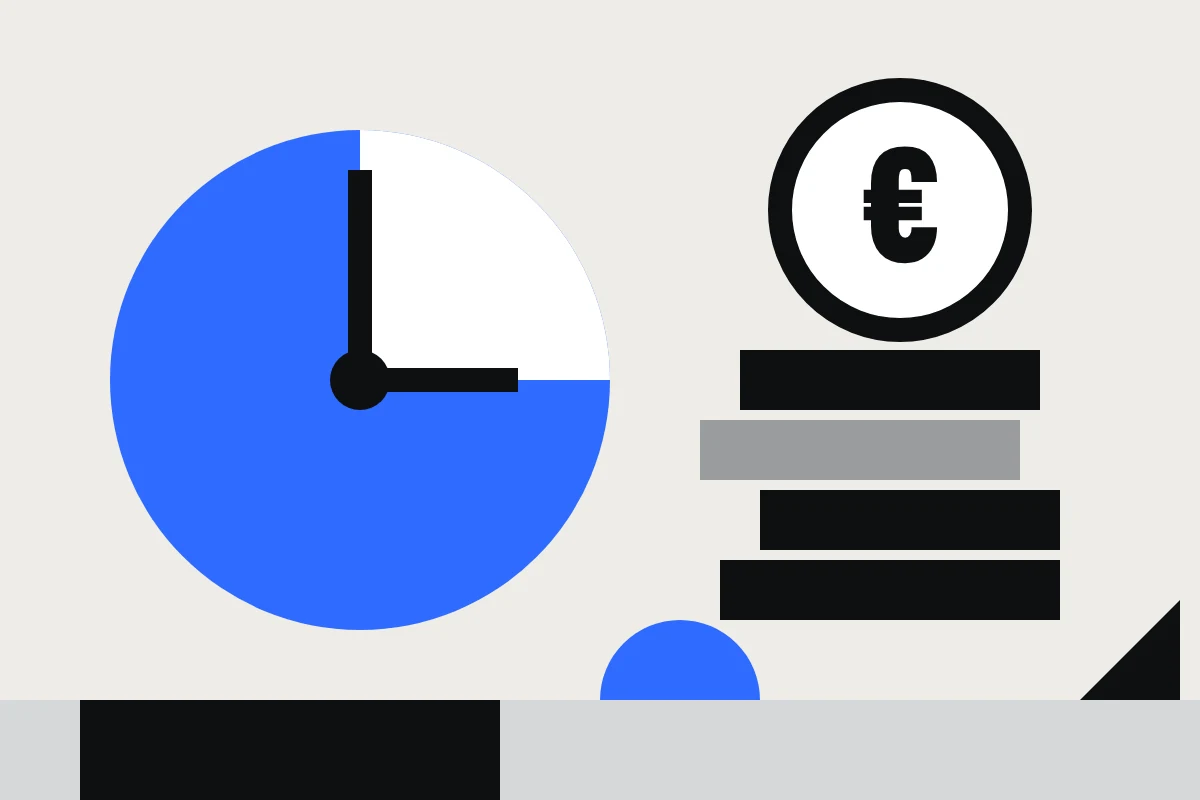
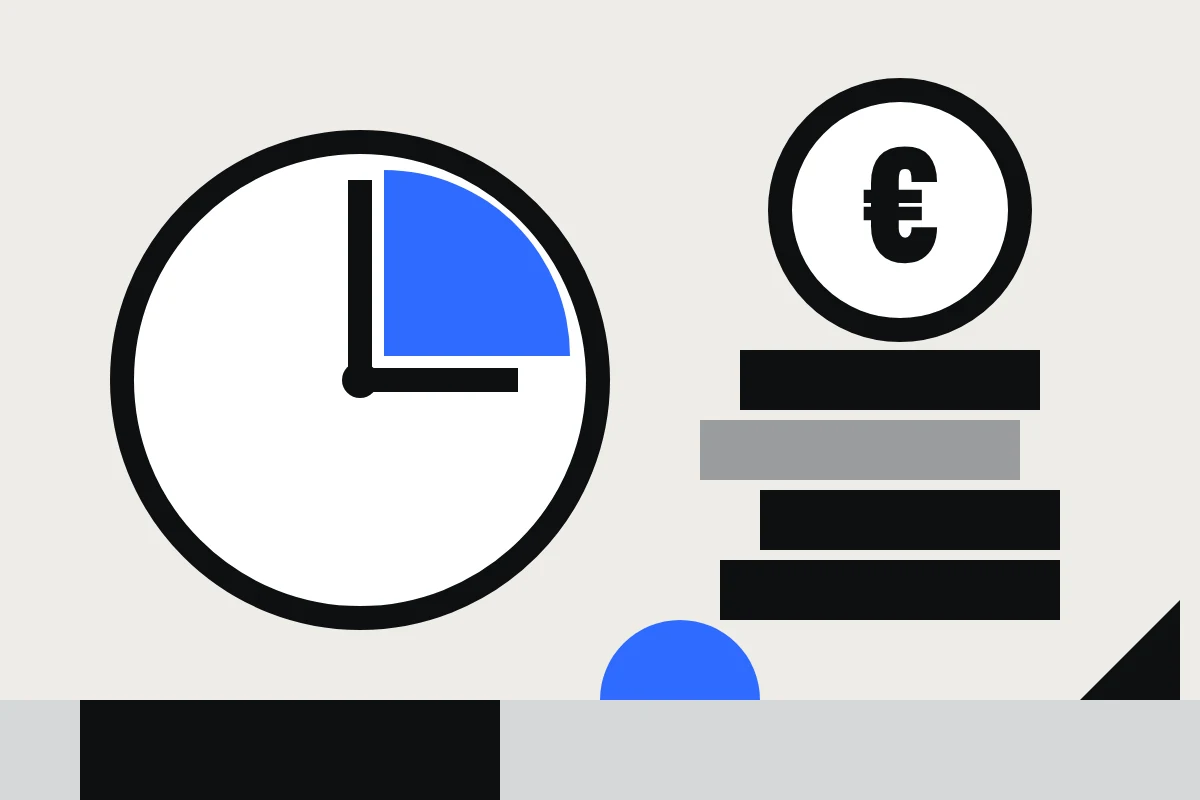
Blogbeitrag Geld und Zeit: Befunde der Prüfung eingearbeitet
- Ab-Preise einheitlich, 150 € je Unterseite nur im Paket Website
- Dauer-Diagramm: Mindestdauer, übliche Spanne, großer Umfang getrennt
- Eigene Auswertung vollständig aufgeschlüsselt, Kundenbeispiele sinngemäß und ohne erkennbare Details
- Kein Blau an Schwarz (Uhr im Titel- und Vorschaubild, Icons, Fugen in Diagrammen)

Claude-Session: https://claude.ai/code/session_01DgHRh8FoC8rL4iNtf1G8sb

Changed region(s): [[0.0925, 0.1562, 0.5242, 0.8125]]

diff --git a/website/blog/was-kostet-eine-website/index.html b/website/blog/was-kostet-eine-website/index.html
@@ -41,7 +41,7 @@
    "inLanguage": "de-DE",
    "url": "https://studio-aah.de/blog/was-kostet-eine-website/",
    "mainEntityOfPage": "https://studio-aah.de/blog/was-kostet-eine-website/",
-   "wordCount": 2633,
+   "wordCount": 2657,
    "articleSection": "Ratgeber",
    "keywords": [
     "Website Kosten",
@@ -53,7 +53,6 @@
    ],
    "author": {
     "@type": "Person",
-    "@id": "https://studio-aah.de/profil/#anna",
     "name": "Anna Härtelt",
     "url": "https://studio-aah.de/profil/",
     "jobTitle": "UX/UI-Designerin, Strategin und Webentwicklerin",
@@ -85,7 +84,8 @@
     "addressCountry": "DE"
    },
    "founder": {
-    "@id": "https://studio-aah.de/profil/#anna"
+    "@type": "Person",
+    "name": "Anna Härtelt"
    }
   },
   {
@@ -290,10 +290,10 @@
         <p class="meta" id="kurz-titel">Kurz gesagt</p>
         <ul>
           <li>Bei STUDIO AAH! beginnt ein <strong>Onepager bei 1.150&nbsp;€</strong>, eine <strong>Website mit bis zu 6 Unterseiten bei 2.450&nbsp;€</strong> und ein <strong>Redesign für mittelständische Unternehmen bei 5.000&nbsp;€</strong> – jeweils netto. Für jede neue Website kommt einmalig der Launch für 150&nbsp;€ dazu.</li>
-          <li>Jede weitere Unterseite kostet 150&nbsp;€. Eine Website mit 10 Unterseiten liegt damit bei 3.200&nbsp;€ netto, Launch eingerechnet.</li>
+          <li>Im Paket „Website – neu oder Redesign“ sind 6 Unterseiten enthalten, jede weitere kostet 150&nbsp;€. Eine Website mit 10 Unterseiten beginnt damit bei 3.200&nbsp;€ netto, Launch eingerechnet.</li>
           <li>Nach dem Launch zahlen Sie Hosting, Domain und Lizenzen direkt an die Anbieter. Wartung kostet bei mir ab 45&nbsp;€ im Monat, Änderungen ab 65&nbsp;€ pro Stunde.</li>
           <li>Ein Onepager dauert etwa <strong>4 bis 6 Wochen</strong>, eine Website mit mehreren Unterseiten <strong>3 bis 4 Monate</strong>, je nach Umfang bis zu 6 Monate.</li>
-          <li>Die meiste Zeit kosten selten Technik oder Design, sondern Inhalte und Abstimmung: In meinen Projekten und Anfragen 2025 und 2026 betrafen 35 von 79 schriftlichen Rückfragen Inhalte oder den Ablauf – nur 5 die Kosten.</li>
+          <li>In meinen Projekten und Anfragen 2025 und 2026 drehten sich 35 von 79 schriftlichen Rückfragen um Inhalte oder den Ablauf – nur 5 um Kosten und 4 um Technik.</li>
         </ul>
       </section>
 
@@ -312,7 +312,7 @@
       </nav>
 
       <h2 id="preise">Was kostet eine Website? Die Preise im Überblick</h2>
-      <p>Eine Website kostet so viel, wie sie leisten soll. Eine Seite, die ein einzelnes Angebot vorstellt, ist ein anderes Projekt als ein Unternehmensauftritt mit Leistungs-, Referenz- und Karriereseiten. Preisangaben im Netz stammen fast immer von Anbietern selbst; eine unabhängige Erhebung zu Website-Preisen in Deutschland mit offengelegter Methode habe ich bei meiner Recherche im Oktober 2026 nicht gefunden. Deshalb nenne ich hier meine eigenen Einstiegspreise – nachprüfbar auf meiner <a href="../../preise/">Preisseite</a>.</p>
+      <p>Eine Website kostet so viel, wie sie leisten soll. Eine Seite, die ein einzelnes Angebot vorstellt, ist ein anderes Projekt als ein Unternehmensauftritt mit Leistungs-, Referenz- und Karriereseiten. Bei meiner Recherche im Oktober 2026 habe ich nur Preisangaben von Anbietern selbst gefunden, aber keine unabhängige Erhebung zu Website-Preisen in Deutschland mit offengelegter Methode. Deshalb nenne ich hier meine eigenen Einstiegspreise – nachprüfbar auf meiner <a href="../../preise/">Preisseite</a>.</p>
 
       <div class="tabelle-scroll" tabindex="0" role="region" aria-label="Tabelle: Website-Preise bei STUDIO AAH!">
         <table class="artikel-tabelle">
@@ -338,10 +338,10 @@
         <div class="diagramm">
           <p class="meta">Beispielrechnungen inklusive Launch, netto</p>
           <ul class="balken-liste">
-            <li><span class="balken-name">Onepager</span><span class="balken-spur"><span class="balken" style="--w: 18.6%"></span><span class="balken-wert">1.300&nbsp;€</span></span></li>
-            <li><span class="balken-name">Website <small>6 Unterseiten</small></span><span class="balken-spur"><span class="balken" style="--w: 37.1%"></span><span class="balken-wert">2.600&nbsp;€</span></span></li>
-            <li><span class="balken-name">Website <small>10 Unterseiten</small></span><span class="balken-spur"><span class="balken balken-blau" style="--w: 45.7%"></span><span class="balken-wert">3.200&nbsp;€</span></span></li>
-            <li><span class="balken-name">Website zweisprachig <small>6 Unterseiten, +30&nbsp;%</small></span><span class="balken-spur"><span class="balken" style="--w: 47.6%"></span><span class="balken-wert">3.335&nbsp;€</span></span></li>
+            <li><span class="balken-name">Onepager</span><span class="balken-spur"><span class="balken" style="--w: 18.6%"></span><span class="balken-wert">ab 1.300&nbsp;€</span></span></li>
+            <li><span class="balken-name">Website <small>6 Unterseiten</small></span><span class="balken-spur"><span class="balken" style="--w: 37.1%"></span><span class="balken-wert">ab 2.600&nbsp;€</span></span></li>
+            <li><span class="balken-name">Website <small>10 Unterseiten</small></span><span class="balken-spur"><span class="balken balken-blau" style="--w: 45.7%"></span><span class="balken-wert">ab 3.200&nbsp;€</span></span></li>
+            <li><span class="balken-name">Website zweisprachig <small>6 Unterseiten, +30&nbsp;%</small></span><span class="balken-spur"><span class="balken" style="--w: 47.6%"></span><span class="balken-wert">ab 3.335&nbsp;€</span></span></li>
             <li><span class="balken-name">Redesign für Unternehmen</span><span class="balken-spur"><span class="balken" style="--w: 73.6%"></span><span class="balken-wert">ab 5.150&nbsp;€</span></span></li>
             <li><span class="balken-name">Komplexes Projekt <small>Shop, Mitgliederbereich, über 25 Seiten</small></span><span class="balken-spur"><span class="balken" style="--w: 87.9%"></span><span class="balken-wert">ab 6.150&nbsp;€</span></span></li>
           </ul>
@@ -349,16 +349,16 @@
         <figcaption><strong>Was eine Website bei STUDIO AAH! kostet:</strong> Beispielrechnungen mit den Einstiegspreisen, jeweils plus 150&nbsp;€ Launch. Eine zweite Sprache kostet 30&nbsp;% des Website-Preises, die Übersetzung liefern Sie. Stand: Oktober 2026.</figcaption>
       </figure>
 
-      <h3>Drei Wege zur Website – und was Sie jeweils bezahlen</h3>
-      <div class="tabelle-scroll" tabindex="0" role="region" aria-label="Tabelle: Wege zur Website">
+      <h3>Selbst bauen oder bauen lassen?</h3>
+      <div class="tabelle-scroll" tabindex="0" role="region" aria-label="Tabelle: Selbst bauen oder bauen lassen">
         <table class="artikel-tabelle">
+          <caption>Zwei Wege zur Website</caption>
           <thead>
             <tr><th scope="col">Weg</th><th scope="col">Was Sie zahlen</th><th scope="col">Was Sie selbst tun</th></tr>
           </thead>
           <tbody>
-            <tr><th scope="row">Baukasten (z.&nbsp;B. Wix, Jimdo)</th><td>meist eine laufende Gebühr an den Anbieter</td><td>Struktur, Texte, Bilder, Gestaltung und Pflege – Ihre eigene Zeit ist ein großer Posten</td></tr>
-            <tr><th scope="row">Freelancerin oder Studio</th><td>einen Projektpreis, danach Hosting, Domain und auf Wunsch Wartung</td><td>Inhalte liefern oder freigeben, Feedback geben</td></tr>
-            <tr><th scope="row">Agentur</th><td>einen Projektpreis, oft für ein Team aus mehreren Fachleuten</td><td>Inhalte liefern oder freigeben, Feedback geben</td></tr>
+            <tr><th scope="row">Selbst bauen mit einem Baukasten (z.&nbsp;B. Wix, Jimdo)</th><td>die Gebühr des Anbieters, je nach Tarif</td><td>Struktur, Texte, Bilder, Gestaltung und Pflege – Ihre eigene Zeit ist ein großer Posten</td></tr>
+            <tr><th scope="row">Bauen lassen von Freelancerin, Studio oder Agentur</th><td>einen Projektpreis, danach Hosting, Domain und auf Wunsch Wartung</td><td>Inhalte liefern oder freigeben, Feedback geben</td></tr>
           </tbody>
         </table>
       </div>
@@ -366,7 +366,7 @@
 
       <h2 id="preisfaktoren">Wovon der Preis abhängt</h2>
       <ul>
-        <li><strong>Anzahl der Unterseiten:</strong> Bei mir der wichtigste Preisfaktor. Jede Seite braucht Struktur, Text, Gestaltung und Umsetzung – deshalb kostet jede Unterseite über sechs hinaus 150&nbsp;€.</li>
+        <li><strong>Anzahl der Unterseiten:</strong> Jede Seite braucht Struktur, Text, Gestaltung und Umsetzung. Im Paket „Website – neu oder Redesign“ kostet deshalb jede Unterseite über sechs hinaus 150&nbsp;€.</li>
         <li><strong>Ausgangslage:</strong> Bei einem Redesign analysiere ich die bestehende Seite, übernehme vorhandene Inhalte und richte Weiterleitungen alter Adressen ein, damit Besucher:innen und Google nichts verlieren.</li>
         <li><strong>Funktionen:</strong> Ein Blog kostet 490&nbsp;€, eine Newsletter-Anbindung 260&nbsp;€, jede weitere Sprache 30&nbsp;% des Website-Preises. Shop oder Mitgliederbereich machen ein eigenes Projekt daraus.</li>
         <li><strong>Inhalte:</strong> Gibt es Texte, Fotos, Logo und Grafiken schon – oder müssen sie erst entstehen?</li>
@@ -375,12 +375,12 @@
 
       <aside class="praxis" aria-label="Aus der Praxis: Bilder">
         <p class="meta">Aus der Praxis</p>
-        <p>In einem Projekt hätte ein professionelles Fotoshooting deutlich mehr gekostet als die Website selbst: mehrere Shooting-Tage, dazu Mitarbeitende, die nicht unbedingt im Netz zu sehen sein wollten. Der Kunde fragte deshalb nach einer genauen Bildliste und nach Stockfotos für den Übergang. Beides sind gute Wege. Mein Rat: Klären Sie die Bilder vor dem Projektstart – sie sind oft ein eigener Kostenblock.</p>
+        <p>In einem Projekt hätte ein professionelles Fotoshooting deutlich mehr gekostet als die Website selbst: mehrere Shooting-Tage, dazu Mitarbeitende, die nicht unbedingt im Netz zu sehen sein wollten. Der Kunde fragte deshalb nach einer genauen Bildliste und nach Stockfotos für den Übergang. Beides sind gute Wege. Mein Rat: Klären Sie vor dem Projektstart, woher die Bilder kommen – ein eigenes Fotoshooting kann ein eigener Kostenblock sein.</p>
       </aside>
 
       <aside class="praxis" aria-label="Aus der Praxis: Sorge um steigende Kosten">
         <p class="meta">Aus der Praxis</p>
-        <p>„Ich habe ein bisschen Angst, dass wir gerade den Preis der Seite auf Grund der Kommunikation in die Höhe treiben“, schrieb mir ein Kunde mitten im Projekt. Die Sorge ist berechtigt, wenn nicht klar ist, was im Preis steckt. Fragen Sie deshalb bei jedem Angebot: Wie viele Korrekturrunden sind enthalten – und was kostet jede weitere?</p>
+        <p>Ein Kunde schrieb mir mitten im Projekt, er fürchte, dass die viele Abstimmung den Preis in die Höhe treibt. Die Sorge ist berechtigt, wenn nicht klar ist, was im Preis steckt. Fragen Sie deshalb bei jedem Angebot: Wie viele Korrekturrunden sind enthalten – und was kostet jede weitere?</p>
       </aside>
 
       <h2 id="laufende-kosten">Laufende Kosten nach dem Launch</h2>
@@ -412,11 +412,11 @@
             <span class="st-schwarz" style="--w: 3050"></span><span class="st-grau" style="--w: 150"></span><span class="st-blau" style="--w: 540"></span><span class="st-streifen" style="--w: 300"></span>
           </div>
           <ul class="legende">
-            <li><i class="st-schwarz"></i>Website mit 10 Unterseiten (2.450&nbsp;€ + 4 × 150&nbsp;€)<b>3.050&nbsp;€</b></li>
+            <li><i class="st-schwarz"></i>Website mit 10 Unterseiten (2.450&nbsp;€ + 4 × 150&nbsp;€)<b>ab 3.050&nbsp;€</b></li>
             <li><i class="st-grau"></i>Launch, einmalig<b>150&nbsp;€</b></li>
             <li><i class="st-blau"></i>Wartung, 12 × 45&nbsp;€ (optional)<b>540&nbsp;€</b></li>
             <li><i class="st-streifen"></i>Hosting, Domain, Lizenzen<b>beim Anbieter</b></li>
-            <li class="legende-summe">Erstes Jahr bei STUDIO AAH!<b>3.740&nbsp;€</b></li>
+            <li class="legende-summe">Erstes Jahr bei STUDIO AAH!<b>ab 3.740&nbsp;€</b></li>
           </ul>
         </div>
         <figcaption><strong>Einmalig und laufend im Vergleich:</strong> Ab dem zweiten Jahr bleiben nur Wartung (540&nbsp;€, wenn gewünscht) sowie Hosting, Domain und Lizenzen. Alle Beträge netto, Stand Oktober 2026. Die Breite des gestreiften Abschnitts ist nur ein Platzhalter, keine Zahl.</figcaption>
@@ -434,16 +434,16 @@
         <div class="diagramm">
           <p class="meta">Dauer in Monaten – von der Beauftragung bis zum Launch</p>
           <ul class="dauer-zeilen">
-            <li><span class="balken-name">Onepager <small>4–6 Wochen</small></span><span class="dauer-spur"><span class="dauer-max" style="--max: 23%"></span><span class="dauer-kern" style="--kern: 15.4%"></span></span></li>
-            <li><span class="balken-name">Website mit Unterseiten <small>3–4 Monate, bis 6</small></span><span class="dauer-spur"><span class="dauer-max" style="--max: 100%"></span><span class="dauer-kern" style="--kern: 66.7%"></span></span></li>
-            <li class="dauer-blau"><span class="balken-name">Beispiel Redesign <small>mit Rebranding, 4 Monate</small></span><span class="dauer-spur"><span class="dauer-kern" style="--kern: 66.7%"></span></span></li>
+            <li><span class="balken-name">Onepager <small>4–6 Wochen</small></span><span class="dauer-spur"><span class="dauer-kern" style="--kern: 15.4%"></span><span class="dauer-spanne" style="--von: 15.4%; --bis: 23%"></span></span></li>
+            <li><span class="balken-name">Website mit Unterseiten <small>3–4 Monate, je nach Umfang bis 6</small></span><span class="dauer-spur"><span class="dauer-kern" style="--kern: 50%"></span><span class="dauer-spanne" style="--von: 50%; --bis: 66.7%"></span><span class="dauer-gross" style="--von: 66.7%; --bis: 100%"></span></span></li>
+            <li><span class="balken-name">Beispiel Redesign <small>mit Rebranding, 4 Monate</small></span><span class="dauer-spur"><span class="dauer-kern" style="--kern: 66.7%"></span></span></li>
           </ul>
           <p class="dauer-achse" aria-hidden="true"><span>0</span><span>1</span><span>2</span><span>3</span><span>4</span><span>5</span><span>6</span></p>
         </div>
-        <figcaption><strong>Realistische Zeitpläne:</strong> schwarz die übliche Dauer, grau der längste Fall bei großem Umfang. Blau: das Redesign für Wolfgang Bauer Ingenieurbau mit Strategie, Rebranding, Website und Unternehmenspräsentation, 2026.</figcaption>
+        <figcaption><strong>Realistische Zeitpläne:</strong> Schwarz die Mindestdauer, blau die übliche Spanne, gestreift die längere Dauer bei großem Umfang. Die dritte Zeile zeigt das Redesign für Wolfgang Bauer Ingenieurbau mit Strategie, Rebranding, Website und Unternehmenspräsentation, 2026: 4 Monate.</figcaption>
       </figure>
 
-      <p>Dass ein Projekt Monate dauert, liegt nicht daran, dass jemand Monate lang programmiert. Es liegt an den Schritten dazwischen: Analyse, Strategie, Gestaltung, Inhalte – und an den Freigaben. An vier Stellen halten wir an, und Sie entscheiden, bevor es weitergeht:</p>
+      <p>Ein Website-Projekt besteht aus mehreren Schritten: Analyse, Strategie, Gestaltung, Inhalte und Umsetzung. An vier Stellen halten wir an, und Sie geben frei, bevor es weitergeht:</p>
 
       <figure class="grafik">
         <div class="diagramm">
@@ -460,19 +460,20 @@
 
       <figure class="grafik grafik-bild">
         <img src="../../bilder/blog-geld-und-zeit-referenz.webp" alt="Startseite der neuen Website von Wolfgang Bauer Ingenieurbau: Überschrift „Leistung auf höchstem Niveau. Wir bauen, wo der Bestand bleibt.“ neben einem Foto des Teams auf der Baustelle." width="1200" height="750" loading="lazy">
-        <figcaption><strong>Beispiel aus der Praxis:</strong> Das Redesign für <a href="https://bauer-ingbau.de">Wolfgang Bauer Ingenieurbau ↗</a> hat mit Strategie, Rebranding und Unternehmenspräsentation 4 Monate gedauert.</figcaption>
+        <figcaption><strong>Beispiel aus der Praxis:</strong> Das Redesign für <a href="https://bauer-ingbau.de">Wolfgang Bauer Ingenieurbau <span aria-hidden="true">↗</span></a> hat mit Strategie, Rebranding und Unternehmenspräsentation 4 Monate gedauert.</figcaption>
       </figure>
 
       <h2 id="zeit-sparen">Was Projekte verlängert – und wie Sie Zeit sparen</h2>
-      <p>Für diesen Beitrag habe ich ausgewertet, worum es in den schriftlichen Rückfragen meiner Kund:innen ging. Das Ergebnis hat mich selbst überrascht:</p>
+      <p>Für diesen Beitrag habe ich ausgewertet, worum es in den schriftlichen Rückfragen meiner Kund:innen ging:</p>
 
       <dl class="kennzahlen-reihe">
-        <div><dt>44<small>%</small></dt><dd>der Rückfragen drehten sich um Inhalte und den Ablauf (35 von 79)</dd></div>
-        <div><dt>18<small>%</small></dt><dd>betrafen die Gestaltung (14 von 79)</dd></div>
-        <div><dt>6<small>%</small></dt><dd>betrafen die Kosten (5 von 79)</dd></div>
+        <div><dt>44<small>%</small></dt><dd>Inhalte und Ablauf (35 von 79)</dd></div>
+        <div><dt>18<small>%</small></dt><dd>Gestaltung (14 von 79)</dd></div>
+        <div><dt>6<small>%</small></dt><dd>Kosten (5 von 79)</dd></div>
+        <div><dt>5<small>%</small></dt><dd>Technik und Hosting (4 von 79)</dd></div>
       </dl>
 
-      <p>Technik ist selten der Engpass. Zeit kostet, was zwischen den Beteiligten passiert: Welche Texte fehlen noch? Welche Korrektur ist schon umgesetzt? Wer gibt frei? Aus einem Projekt kam die Nachricht: „Ich hab den Überblick verloren, weil ich die Sachen […] alle per Mail delegiert hab.“ Das ist verständlich – und lässt sich mit etwas Planung vermeiden.</p>
+      <p>Rückfragen sind keine Zeitmessung. Sie zeigen aber, wo Abstimmung nötig war: Welche Texte fehlen noch? Welche Korrektur ist schon umgesetzt? Wer gibt frei? Aus einem Projekt kam zum Beispiel die Rückmeldung, man habe den Überblick verloren, weil Aufgaben über viele einzelne Mails verteilt waren. Das ist verständlich – und lässt sich mit etwas Planung vermeiden.</p>
 
       <h3>Sechs Wege, Ihr Projekt schneller ins Ziel zu bringen</h3>
       <ol class="checkliste">
@@ -491,14 +492,14 @@
 
       <div class="methodik">
         <p class="meta">So habe ich ausgewertet</p>
-        <p>Grundlage sind die E-Mails zu 6 Website-Projekten und Anfragen der Jahre 2025 und 2026. Ich habe jede Frage, Sorge und Unsicherheit der Kund:innen festgehalten – 79 insgesamt – und einem Thema zugeordnet. Telefonate und Erstgespräche sind nicht enthalten. Fragen vor dem Auftrag, etwa zu Kosten, sind deshalb vermutlich seltener vertreten, als sie gestellt werden. Alle Zitate sind anonymisiert.</p>
+        <p>Grundlage sind die E-Mails zu 4 Website-Projekten und 2 Anfragen der Jahre 2025 und 2026. Ich habe jede Frage, Sorge und Unsicherheit festgehalten – 79 insgesamt – und genau einem Thema zugeordnet: Ablauf und Zusammenarbeit 18, Inhalte 17, Gestaltung 14, Pflege und Zugänge 9, Kosten 5, Formulare und E-Mails 5, Technik und Hosting 4, Recht 2, Sichtbarkeit bei Google 1, Erfolgsmessung 1, Sonstiges 3. Telefonate und Erstgespräche sind nicht enthalten; Fragen vor dem Auftrag, etwa zu Kosten, sind deshalb vermutlich seltener vertreten, als sie gestellt werden. Alle Beispiele sind ohne Namen und sinngemäß wiedergegeben.</p>
       </div>
 
       <h2 id="relaunch">Relaunch oder Überarbeitung?</h2>
       <p>Nicht jede Website braucht einen Neustart. Oft reicht es, gezielt nachzubessern. Diese Gegenüberstellung hilft bei der Entscheidung:</p>
       <div class="vergleich">
         <div>
-          <h3><svg viewBox="0 0 24 24" width="24" height="24" aria-hidden="true"><rect x="2" y="2" width="20" height="20" fill="#0e1011"/><rect x="2" y="12" width="20" height="10" fill="#2f6bff"/></svg>Eine Überarbeitung reicht, wenn …</h3>
+          <h3><svg viewBox="0 0 24 24" width="24" height="24" aria-hidden="true"><rect x="2" y="2" width="20" height="20" fill="#0e1011"/><rect x="2" y="13" width="20" height="9" fill="#d6d8d9"/></svg>Eine Überarbeitung reicht, wenn …</h3>
           <ul>
             <li>Marke und Angebot noch passen,</li>
             <li>die Technik aktuell ist und sich pflegen lässt,</li>
@@ -508,7 +509,7 @@
           <p>Einstieg: <a href="../../service/ui-ux/">Expert Review ab 1.200&nbsp;€</a> oder SEO &amp; LLM-Zitierfähigkeit für bestehende Websites ab 260&nbsp;€.</p>
         </div>
         <div>
-          <h3><svg viewBox="0 0 24 24" width="24" height="24" aria-hidden="true"><circle cx="12" cy="12" r="10" fill="#fff"/><path d="M12 2a10 10 0 0 1 0 20z" fill="#9a9d9e"/></svg>Ein Relaunch lohnt sich, wenn …</h3>
+          <h3><svg viewBox="0 0 24 24" width="24" height="24" aria-hidden="true"><circle cx="12" cy="12" r="10" fill="#0e1011" stroke="#fff" stroke-width="1.5"/><path d="M12 2a10 10 0 0 1 0 20z" fill="#fff"/></svg>Ein Relaunch lohnt sich, wenn …</h3>
           <ul>
             <li>sich Angebot oder Marke verändert haben,</li>
             <li>die Seite auf dem Handy schwer zu lesen und zu bedienen ist,</li>
@@ -522,14 +523,14 @@
 
       <aside class="praxis" aria-label="Aus der Praxis: Überarbeiten statt neu bauen">
         <p class="meta">Aus der Praxis</p>
-        <p>Eine Interessentin hatte eine fast fertige Website von einer Agentur und wollte die letzte Korrekturrunde nutzen, um sie spürbar zu verbessern. Ich habe ihr zwei Wege vorgeschlagen, die auf der bestehenden Seite aufbauen – ohne Relaunch. Das spart Geld und Zeit, wenn die Grundlage stimmt.</p>
+        <p>Eine Interessentin wollte eine bestehende, fast fertige Website spürbar verbessern. Ich habe ihr zwei Wege vorgeschlagen, die auf der Seite aufbauen – ohne Relaunch. Das spart Geld und Zeit, wenn die Grundlage stimmt.</p>
       </aside>
 
       <h2 id="angebot">So bekommen Sie ein verlässliches Angebot</h2>
       <p>Je klarer Ihre Ausgangslage, desto genauer das Angebot. Diese Punkte sollten Sie vor dem Erstgespräch beantworten können:</p>
       <ol class="checkliste">
         <li><strong>Ziel:</strong> Was soll die Website leisten – Anfragen, Bewerbungen, Information?</li>
-        <li><strong>Seitenliste:</strong> Welche Unterseiten brauchen Sie? Bei mir der wichtigste Preisfaktor.</li>
+        <li><strong>Seitenliste:</strong> Welche Unterseiten brauchen Sie? Sie bestimmt den Umfang – und damit den Preis.</li>
         <li><strong>Inhalte:</strong> Gibt es Texte und Bilder, oder sollen sie entstehen?</li>
         <li><strong>Funktionen:</strong> Blog, Newsletter, Karrierebereich, Shop, weitere Sprachen?</li>
         <li><strong>Zeitrahmen:</strong> Gibt es einen festen Termin, etwa eine Messe oder ein Jubiläum?</li>
@@ -608,9 +609,10 @@
       <h2 id="quellen">Quellen</h2>
       <ul class="quellen">
         <li>Preise und Leistungen: <a href="../../preise/">Preisseite von STUDIO AAH!</a> und <a href="../../service/website/">Leistungsseite Website</a>, Stand Oktober 2026.</li>
-        <li>Eigene Auswertung: 79 schriftliche Rückfragen zu 6 Website-Projekten und Anfragen 2025–2026 (Methode siehe oben).</li>
-        <li>Let’s Encrypt: <a href="https://letsencrypt.org/de/about/">Über Let’s Encrypt ↗</a> – „kostenlos“ für alle, die eine Domain besitzen.</li>
-        <li>WordPress: <a href="https://github.com/WordPress/WordPress/blob/master/license.txt">Lizenz (GPL Version 2 oder später) ↗</a>.</li>
+        <li>Eigene Auswertung: 79 schriftliche Rückfragen zu 4 Website-Projekten und 2 Anfragen, 2025–2026 (Methode siehe oben).</li>
+        <li>Ablauf und Freigaben: <a href="../was-ki-an-meiner-arbeit-veraendert-hat/">Was KI an meiner Arbeit verändert hat – und was nicht</a>.</li>
+        <li>Let’s Encrypt: <a href="https://letsencrypt.org/de/about/">Über Let’s Encrypt <span aria-hidden="true">↗</span></a> – „kostenlos“ für alle, die eine Domain besitzen.</li>
+        <li>WordPress: <a href="https://github.com/WordPress/WordPress/blob/master/license.txt">Lizenz (GPL Version 2 oder später) <span aria-hidden="true">↗</span></a>.</li>
       </ul>
 
     </div>

diff --git a/website/css/stil.css b/website/css/stil.css
@@ -2036,7 +2036,7 @@ section[hidden] { display: none !important; }
 .wahl-seiten { display: block; }
 .wahl-seiten > p { margin: 0; }
 .wahl-seiten-felder { display: flex; flex-wrap: wrap; align-items: center; gap: 8px; margin-top: 8px !important; }
-/* ---------- 27. Blog-Ratgeber: Vorlage für ausführliche Beiträge (13.10.2026) ----------
+/* ---------- 37. Blog-Ratgeber: Vorlage für ausführliche Beiträge (13.10.2026) ----------
    Bausteine: Reihe, Vorspann, „Kurz gesagt“, Inhaltsverzeichnis, Tabellen, Grafiken, Kennzahlen,
    „Aus der Praxis“, Vergleich, Checkliste, FAQ, Methodik, Autorin, Abschluss mit Buttons, Quellen. */
 .artikel-ratgeber { max-width: 900px; }
@@ -2072,7 +2072,7 @@ section[hidden] { display: none !important; }
 .grafik svg { display: block; width: 100%; height: auto; background: var(--farbe-creme); border-radius: 28px; }
 .grafik figcaption { margin-top: 12px; font-size: 14px; line-height: 1.5; color: var(--farbe-gedaempft); }
 .grafik figcaption strong { color: var(--farbe-dunkel); }
-.kennzahlen-reihe { display: grid; grid-template-columns: repeat(3, minmax(0, 1fr)); gap: 16px; margin: 2rem 0; }
+.kennzahlen-reihe { display: grid; grid-template-columns: repeat(4, minmax(0, 1fr)); gap: 16px; margin: 2rem 0; }
 .kennzahlen-reihe div { background: var(--farbe-creme); border-radius: 24px; padding: 24px; }
 .kennzahlen-reihe dt { font-family: var(--schrift-ueberschrift); font-size: clamp(40px, 5vw, 56px); line-height: 1; letter-spacing: .02em; }
 .kennzahlen-reihe dt small { font-size: .45em; margin-left: 4px; }
@@ -2125,7 +2125,7 @@ section[hidden] { display: none !important; }
 .balken { flex: none; height: 28px; width: calc(var(--w) * .74); min-width: 14px; background: var(--farbe-dunkel); border-radius: 0 999px 999px 0; }
 .balken-blau { background: #2f6bff; }
 .balken-wert { font-family: var(--schrift-meta); font-size: 14px; white-space: nowrap; }
-.stapel { display: flex; height: 48px; margin: 4px 0 18px; }
+.stapel { display: flex; gap: 3px; height: 48px; margin: 4px 0 18px; } /* Fuge: Blau grenzt nie direkt an Schwarz */
 .stapel span { flex: var(--w) 1 0; min-width: 10px; }
 .stapel span:last-child { border-radius: 0 999px 999px 0; }
 .st-schwarz { background: var(--farbe-dunkel); } .st-grau { background: #9a9d9e; } .st-blau { background: #2f6bff; }
@@ -2139,9 +2139,12 @@ section[hidden] { display: none !important; }
 .dauer-zeilen li { display: grid; grid-template-columns: minmax(0, 220px) minmax(0, 1fr); gap: 4px 16px; align-items: center; margin: 0 !important; }
 .dauer-spur { position: relative; height: 28px; background: repeating-linear-gradient(90deg, rgba(14, 16, 17, .14) 0 1px, transparent 1px calc(100% / 6)); }
 .dauer-spur span { position: absolute; left: 0; top: 0; bottom: 0; border-radius: 0 999px 999px 0; }
-.dauer-max { width: var(--max); background: #9a9d9e; }
 .dauer-kern { width: var(--kern); background: var(--farbe-dunkel); }
-.dauer-zeilen li.dauer-blau .dauer-kern { background: #2f6bff; }
+.dauer-kern:not(:last-child) { border-radius: 0 !important; }
+.dauer-spanne, .dauer-gross { left: calc(var(--von) + 3px) !important; width: calc(var(--bis) - var(--von) - 3px); }
+.dauer-spanne { background: #2f6bff; }
+.dauer-spanne:not(:last-child) { border-radius: 0 !important; }
+.dauer-gross { background: repeating-linear-gradient(135deg, var(--farbe-dunkel) 0 4px, transparent 4px 10px); }
 .dauer-achse { display: flex; justify-content: space-between; margin: 8px 0 0 calc(220px + 16px); font-family: var(--schrift-meta); font-size: 12px; color: var(--farbe-gedaempft); }
 .ablauf { list-style: none; padding: 0 !important; margin: 0 !important; display: grid; grid-template-columns: repeat(4, minmax(0, 1fr)); gap: 12px; }
 .ablauf li { background: var(--farbe-weiss); border-radius: 20px; padding: 18px; margin: 0 !important; display: flex; flex-direction: column; gap: 8px; font-size: 15px; line-height: 1.45; }
@@ -2155,7 +2158,8 @@ section[hidden] { display: none !important; }
 @media (max-width: 767px) {
   .artikel-ratgeber .artikel-text { font-size: 17px; }
   .kurz { padding: 24px 20px; border-radius: 20px; }
-  .kennzahlen-reihe, .vergleich { grid-template-columns: minmax(0, 1fr); }
+  .kennzahlen-reihe { grid-template-columns: repeat(2, minmax(0, 1fr)); }
+  .vergleich { grid-template-columns: minmax(0, 1fr); }
   .autorin { grid-template-columns: 72px minmax(0, 1fr); gap: 16px; }
   .autorin img { width: 72px; height: 72px; }
   .artikel-schluss { padding: 28px 20px; border-radius: 20px; }
